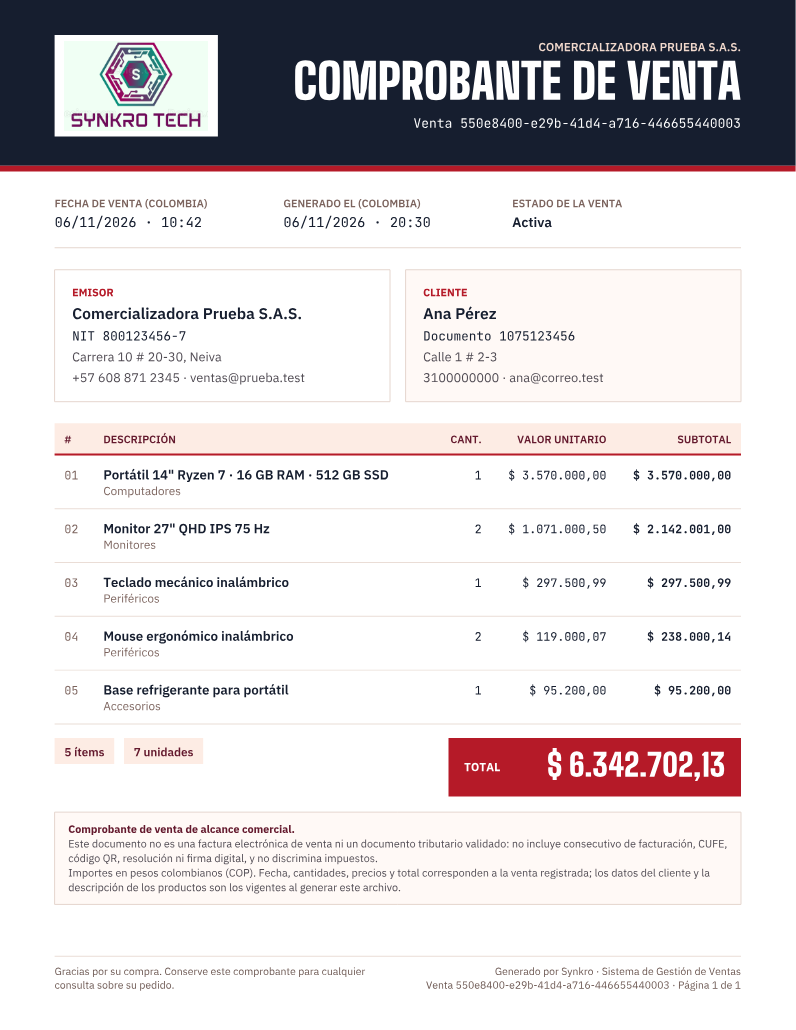
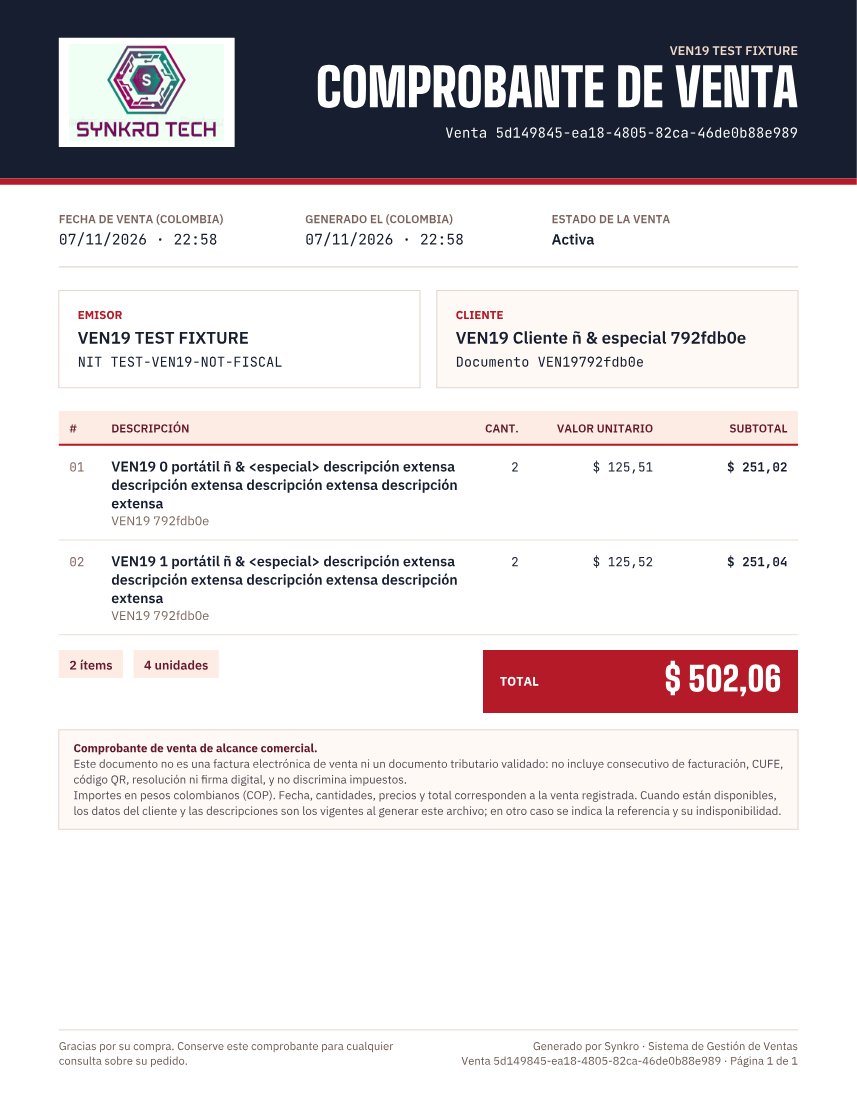
docs(sales): record real document acceptance and previews
(cherry picked from commit d28d576415693400332e716b8b1de85a765f7de1)

diff --git a/docs/sale-documents-design.md b/docs/sale-documents-design.md
@@ -2,14 +2,14 @@
 
 ## Related-read throttling recovery design
 
-The instrumented real20-product attempt reproduced document preparation failing with HTTP429 on product,
+The instrumented real 20-product attempt reproduced document preparation failing with HTTP 429 on product,
 customer and category reads. The Gateway limits remain authoritative and unchanged. Before implementing the
-follow-up, behavioral regressions demonstrated missing retry/wait/cancellation behavior (3 failures in9 cases).
+follow-up, behavioral regressions demonstrated missing retry/wait/cancellation behavior (3 failures in 9 cases).
 
-Only document source GET operations may retry429: at most3 attempts per operation, through the existing Host
+Only document source GET operations may retry HTTP 429: at most 3 attempts per operation, through the existing Host
 client, retaining the same requested reference/options. Respect its existing retryAt timestamp; if absent,
-wait1s then2s. The cumulative waiting budget is10s; a future retryAt beyond the remaining budget fails instead
-of retrying early. Caller cancellation interrupts waits and prevents further reads.401/403/404, network errors,
+wait 1 s then 2 s. The cumulative waiting budget is 10 s; a future retryAt beyond the remaining budget fails instead
+of retrying early. Caller cancellation interrupts waits and prevents further reads. 401/403/404, network errors,
 5xx, malformed data and identity mismatches are never automatically retried by this policy. Exhaustion remains
 a failed preparation with the existing manual retry/error handling; no partial file is emitted. This changes no
 authorization, mutation/idempotency behavior, Host session ownership or Gateway setting.
@@ -18,9 +18,9 @@ Refs code-corhuila/synkro-docs#301. This page is the design, the field-origin re
 verification status of the download of a sale as PDF and XML from the sale detail. It does not close the story and it
 does not claim fiscal validity: see [Commercial scope](#commercial-scope-and-fiscal-limits).
 
-Status (2026-11-07): implemented and verified with unit, component, integration-with-doubles and real-browser tests.
-**Real-service acceptance (ADMIN, owner SALESPERSON, foreign sale) has not been run**; see
-[Real-service acceptance](#real-service-acceptance-pending). Remote CI and owner review are pending.
+Status (2026-11-07): implementation, final repository gates and targeted real-service acceptance passed.
+See [Completion verification](#completion-verification). Peer review, hosted CI and controlled promotion remain
+separate delivery steps; the HU is not closed. This is not a new full21/21 platform acceptance.
 
 ## Criteria, tests and components
 
@@ -73,8 +73,7 @@ of 100 lines (the Sales API maximum) is covered by a test.
 `sanitizeText` is the one text policy shared by both files: NFC, control characters and lone surrogates replaced by U+FFFD,
 runs of whitespace collapsed. Optional values that are empty are omitted (never `undefined`/`null`).
 
-Source reads (`loadSaleDocumentSources`) run through the shared pool with 4 concurrent requests, cancel the rest after the
-first failure and honour an `AbortSignal`.
+Source reads (`loadSaleDocumentSources`) use the shared pool with at most4 concurrent requests and honour the caller's `AbortSignal`. A read failure prevents a download; requests already in flight are not claimed to be cancelled by that failure.
 
 ### PDF
 
@@ -154,7 +153,7 @@ line is a comment.
 
 ## Known limits
 
-* A related-record404 is represented explicitly by its persisted reference and an unavailable marker, never by a guessed name or an alternate privileged lookup. It does not prove whether the record was deleted, hidden or inactive. Other failures still stop generation.
+* A related-record 404 is represented explicitly by its persisted reference and an unavailable marker, never by a guessed name or an alternate privileged lookup. It does not prove whether the record was deleted, hidden or inactive. Other failures still stop generation.
 * No seller name (unavailable to this feature, see [Where every field comes from](#where-every-field-comes-from), not
   nonexistent data); no category when the list does not return it; no historical snapshot (see above).
 * The PDF fonts cover Latin text only (other characters print as "?" in the PDF).
@@ -194,23 +193,18 @@ completed the download. INVENTORY showed no buttons. Samples (synthetic data, no
 [docs/examples/sale-document](examples/sale-document): `pdf-active-1-page.png`, `pdf-voided.png`,
 `pdf-multipage-p1.png`, `pdf-multipage-last.png` and `sale-document.xml`.
 
-## Real-service acceptance (pending)
+## Real-service acceptance
 
-Not run. Docker was in use by another task's isolated stack (containers `synkro-isolated-…-runner/daemon`), no
-`HEAVY-DOCKER.lock` lease could be found to take, and a disposable full stack (Auth, Customers, Products, Sales, their
-databases, Gateway, Front) is a heavy build; it was not started on top of someone else's run. Mocks do not replace it.
-To run it:
+The targeted real-service run is complete; see the exact revisions and scope below. The fixture starts an owned
+disposable Gateway/Auth/Customers/Products/Sales/Workflow mesh with PostgreSQL and MongoDB and the real built
+Host/remotes. Users and active sales are created only through public APIs and the Workflow saga.
 
-1. Take the `HEAVY-DOCKER.lock` lease as in `synkro-auth-api/docs/hu-auth-15-verify-admin-registration.md`, then build a
-   disposable stack from clean checkouts of the released tags, as described in
-   [verification-hu-ven-12.md](verification-hu-ven-12.md), with this portal built with the `VITE_ISSUER_*` values and
-   `VITE_BASE_PATH=/remotes/sales/`. Use only your own fixtures and containers; remove them by exact name afterwards.
-2. Create one ADMIN and two SALESPERSON users through Auth, one customer, two active products, one sale by each
-   SALESPERSON, one voided sale.
-3. As ADMIN: download PDF and XML of a sale of each SALESPERSON. As the owner SALESPERSON: download PDF and XML of their
-   own sale. As the owner SALESPERSON: open the other one's sale by URL and try the download — expect 403 and no data.
-4. Compare each file with `GET /api/v1/sales/{id}` (id, date, status, quantities, cents, total) and with the customer and
-   product reads; check the XML against the XSD and the PDF visually. Record the result here; only then tick criteria.
+To repeat: freeze the desired revisions and committed dependency lock, take the shared heavy-execution lease,
+build the owned fixture, create ADMIN/two SALESPERSON/INVENTORY identities, then compare authorized PDF/XML
+downloads with the real Sales detail. Include foreign403, INVENTORY 403, anonymous 401, missing-sale404,
+related-record 404 reference-only exports, multipage readback/schema validation and transport failure/retry.
+Use a clearly identified synthetic issuer override for fixture documents, never production defaults silently
+relabelled as a test company. Retire only the owned fixture resources and release its own lease.
 
 ## Owner-approved completion design (2026-11-07)
 
@@ -221,11 +215,71 @@ A related401/403/429/5xx, network failure, wrong-identity response or malformed 
 No role escalation, catalogue scan, backend contract change, migration or historical snapshot was introduced.
 
 In both formats, historical identifiers, amounts and quantities remain complete. PDF shows the persisted
-customer/product reference with “Datos actuales no disponibles”. XML1.1 uses origin="UNAVAILABLE" and an
+customer/product reference with “Datos actuales no disponibles”. The commercial XML schema 1.1 uses origin="UNAVAILABLE" and an
 unavailable element instead of inventing a name or identityDocument. Available records retain CURRENT_RECORD.
-The XML declaration remains XML1.0; only the commercial schema/namespace is1.1. The earlier1.0 XSD is retained
+The XML declaration remains XML 1.0; only the commercial schema/namespace is1.1. The earlier 1.0 XSD is retained
 as a historical schema, not the newly generated format. Missing current metadata is explicit, never silent.
 
 A behavioral RED regression reproduced the original404 export failure before this follow-up was applied.
 Identity mismatch and malformed active-flag checks from Claude were reviewed and are verified alongside it.
 The original late-design process note above remains accurate for the initial implementation.
+
+## Completion verification
+
+Runtime candidate: `625c889738655b1a6375ebe775c731b477a3e494`. Private acceptance root: `ce5c861148e833826e937b4d28b78a6d40da33af`;
[1 lines of base64/hex data omitted]
+candidate and retains the other 16 owner revisions from the previously accepted FE-11 QA selection.
+It adds the document checks and a synthetic issuer override; no public Infra or backend contract was changed.
+
+- Local Node 22.23.3: **508/508 tests**, 48 files, using `npm run test -- --coverage --maxWorkers=1`.
+  Coverage: 96.57% statements, 93.49% branches, 99.51% functions, 99.26% lines. Lint, TypeScript/Vite build,
+  compiled boundary and **3/3 Python deployment checks** passed. No test assertions or deadlines were relaxed.
+- Additional static UI audit reports 3 findings in unchanged develop components (native date/select ownership
+  and the generic Button action heuristic). All 3 files were verified unchanged by this PR. It is not claimed
+  as a globally clean static UI audit; generated audit JSON stays outside the product repository.
+- Behavior-first follow-ups: a related-record 404 blocked generation before the reference policy; two 200/null
+  regressions failed before the response validation fix. Product-id mismatch and ambiguous sale.active values
+  are rejected. Follow-up regression evidence is retained outside the product repo.
+- **11/11 targeted real-service checks** passed with 4 real UI logins and **5 independently read PDF/XML pairs**:
+  ADMIN own/other seller, owner SALESPERSON, a multipage sale, and references after actual customer/product
+  deactivation. XML validated against XSD 1.1 and file amounts/identifiers matched real persisted Sales responses.
+  PDF readback checked names, Spanish accents and exact cent amounts; all downloaded pages were rendered for review.
+- Actual foreign-sale 403, INVENTORY 403, anonymous 401 and nonexistent-sale 404 were observed. No foreign download
+  was produced. A real transport abort exposed retry and the subsequent real request downloaded successfully.
+- Real composed container build and `nginx -t` passed. The synthetic issuer reached the served bundle, as checked
+  from both downloaded formats. Product deployment defaults remain the owner-confirmed public name/NIT above.
+- The successful browser run still observed 4 HTTP 429 responses (3 product reads and 1 sale read); the application completed its checks without increasing Gateway limits.
+- Internal/export/outer cleanup passed. The workstation's preexisting synkro-dev database was preserved and the
+  heavy-execution lease released. Cache was reused, not pruned.
+- This is supplementary review-ready evidence: its suite exits 0 and the established outer runner exits 2.
+  It is **not** a fresh 21/21 full-suite run or a hosted-CI pass. The exact selection, hashes and validated result
+  remain in the local delivery folder `deliverables/hu-ven-19-completion/` of the verification workspace.
+
+Earlier evidence was retained: the first real attempt failed in the independent PDF reader's teardown
+(`PDFDocumentProxy.destroy` is absent in this pdf.js version; destruction belongs to its loading task).
+The second attempt exposed that raw PDF text order interleaves numeric cells inside wrapped product names;
+the reader was corrected to compare complete names from the description column identified by its header.
+Attempts 3/4 then exposed the real 20-product failure; instrumented capture recorded HTTP 429 on product,
+customer and category reads. The bounded, cancellation-aware GET retry policy above was implemented after
+its behavioral RED regressions, without changing Gateway limits. All four failed attempts were retained
+and are not counted as acceptance. One default-parallel unit attempt timed out
+in an existing navigation test while the stack acceptance was active; the final complete run above was
+performed separately with one worker and unchanged test timeouts. The final candidate includes all runtime
+fixes; any later commit that only records these results must retain identical application/deployment sources.
+
+Attempt 5 successfully exported the 20-product sale with a 3-page PDF and valid XML after the retry fix,
+then failed a later authorization navigation assertion while another429 was observed. That failed run
+is retained too, not counted as acceptance. For the final run, only fixture/independent-readback traffic
+was paced at 100 ms per request to stay below the Gateway budget; application traffic and Gateway settings
+were unchanged. The browser must now observe the actual foreign-sale 403 before the original redirect check.
+The final evidence validator also rejected 13 independent tamper cases (root, lock, pins, exit/status,
+cleanup, missing/duplicate checks, documents, hashes, export and false full-acceptance claims).
+
+Current real-fixture previews replace the existing active/multipage samples and XML in examples/sale-document;
+pdf-unavailable-records.png shows the owner-approved references-only policy. The retained pdf-voided.png is
+an earlier synthetic renderer example, not a real annulled-sale API download.
+
+Limits remain explicit: the selected Sales API hides annulled sales with 404, so the ANULADA renderer is covered
+by unit tests rather than claimed as a real annulled-sale download. Customer/product descriptions are current
+when available, not historical snapshots. The supplied logo asset and Latin font coverage are unchanged.
+No fiscal validation, electronic invoice integration, promotion, issue closure or synkro-docs update is included.

diff --git a/README.md b/README.md
@@ -54,7 +54,7 @@ Evidencia, brechas de contrato y dependencias reales pendientes: [verificación 
 
 ## HU-VEN-19 — comprobante de venta en PDF y XML
 
-El detalle `/sales/{id}` ofrece «Descargar PDF» y «Descargar XML» a ADMIN y SALESPERSON (INVENTORY no los ve; la autorización real es la de Sales API). Ambos archivos salen de un mismo modelo; importes, fecha y estado son los persistidos de la venta, y los datos del cliente y de los productos son los vigentes al generar (no existen instantáneas históricas). Es un **comprobante de alcance comercial, no una factura electrónica**: sin consecutivo, CUFE, QR, resolución ni firma. El emisor (razón social y NIT obligatorios; dirección, teléfono y correo opcionales) se configura al compilar con `VITE_ISSUER_*`: Docker/Compose y `.env.example` incluyen los valores públicos confirmados «synkro tech sas», NIT «803.256.942-7», que pueden sustituirse; sin datos obligatorios válidos la descarga se niega. Los datos actuales con404 se sustituyen por su referencia y un aviso explícito, sin perder los importes históricos. Referencia `Refs code-corhuila/synkro-docs#301`. Diseño, origen de cada campo, límites y estado de la verificación (la aceptación contra servicios reales sigue pendiente): [docs/sale-documents-design.md](docs/sale-documents-design.md). Esquema del XML: [docs/schemas/sale-document-1.1.xsd](docs/schemas/sale-document-1.1.xsd).
+El detalle `/sales/{id}` ofrece «Descargar PDF» y «Descargar XML» a ADMIN y SALESPERSON (INVENTORY no los ve; la autorización real es la de Sales API). Ambos archivos salen de un mismo modelo; importes, fecha y estado son los persistidos de la venta, y los datos del cliente y de los productos son los vigentes al generar (no existen instantáneas históricas). Es un **comprobante de alcance comercial, no una factura electrónica**: sin consecutivo, CUFE, QR, resolución ni firma. El emisor (razón social y NIT obligatorios; dirección, teléfono y correo opcionales) se configura al compilar con `VITE_ISSUER_*`: Docker/Compose y `.env.example` incluyen los valores públicos confirmados «synkro tech sas», NIT «803.256.942-7», que pueden sustituirse; sin datos obligatorios válidos la descarga se niega. Los datos actuales con404 se sustituyen por su referencia y un aviso explícito, sin perder los importes históricos. Referencia `Refs code-corhuila/synkro-docs#301`. Diseño, origen de cada campo, límites y estado de la verificación (aceptación dirigida real aprobada:11 comprobaciones y5 pares PDF/XML; revisión y promoción pendientes): [docs/sale-documents-design.md](docs/sale-documents-design.md). Esquema del XML: [docs/schemas/sale-document-1.1.xsd](docs/schemas/sale-document-1.1.xsd).
 
 ## Contenedor y CI
 
